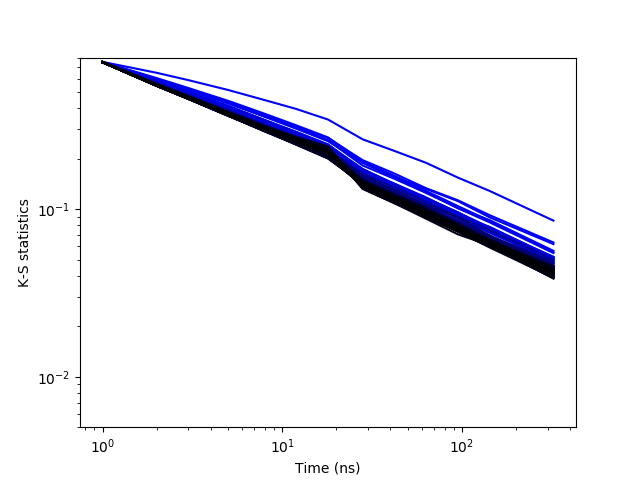
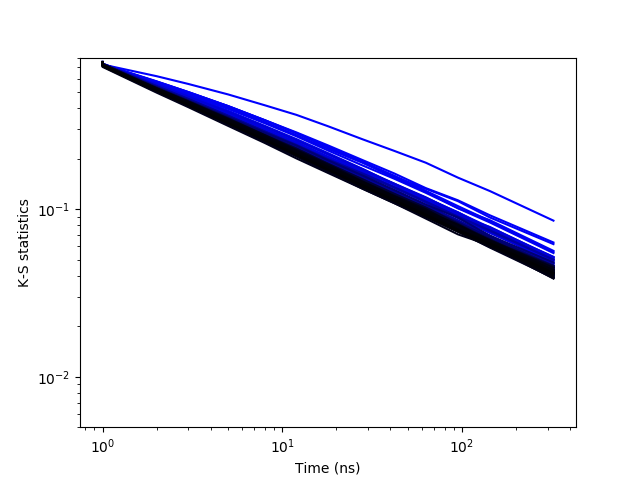
README

Changed region(s): [[0.1562, 0.125, 0.5625, 0.4062]]

diff --git a/scr/kss_time_scale.py b/scr/kss_time_scale.py
@@ -139,9 +139,12 @@ def calc(filename, N_lip, timestep):     #, N_lip, N_bins, N_samples, cutoff = 0
                     cum_an = cum_dist(dist_an)
                     buff_KSS += KSS(cum_ideal, cum_an)
                 else:
-                    dist_an, bin_idx = KDE_for_step(data_an_, y)
+                    # dist_an, bin_idx = KDE_for_step(data_an_, y)
+                    # cum_an = cum_dist(dist_an)
+                    # buff_KSS += KSS_for_step(cum_ideal, cum_an, bin_idx)
+                    dist_an = KDE(data_an_, y)
                     cum_an = cum_dist(dist_an)
-                    buff_KSS += KSS_for_step(cum_ideal, cum_an, bin_idx)
+                    buff_KSS += KSS(cum_ideal, cum_an)
         KSS_time.append(buff_KSS / N_lip / N_chunks)
         buff_KSS = 0.0
         T.append(L_tau * timestep)
